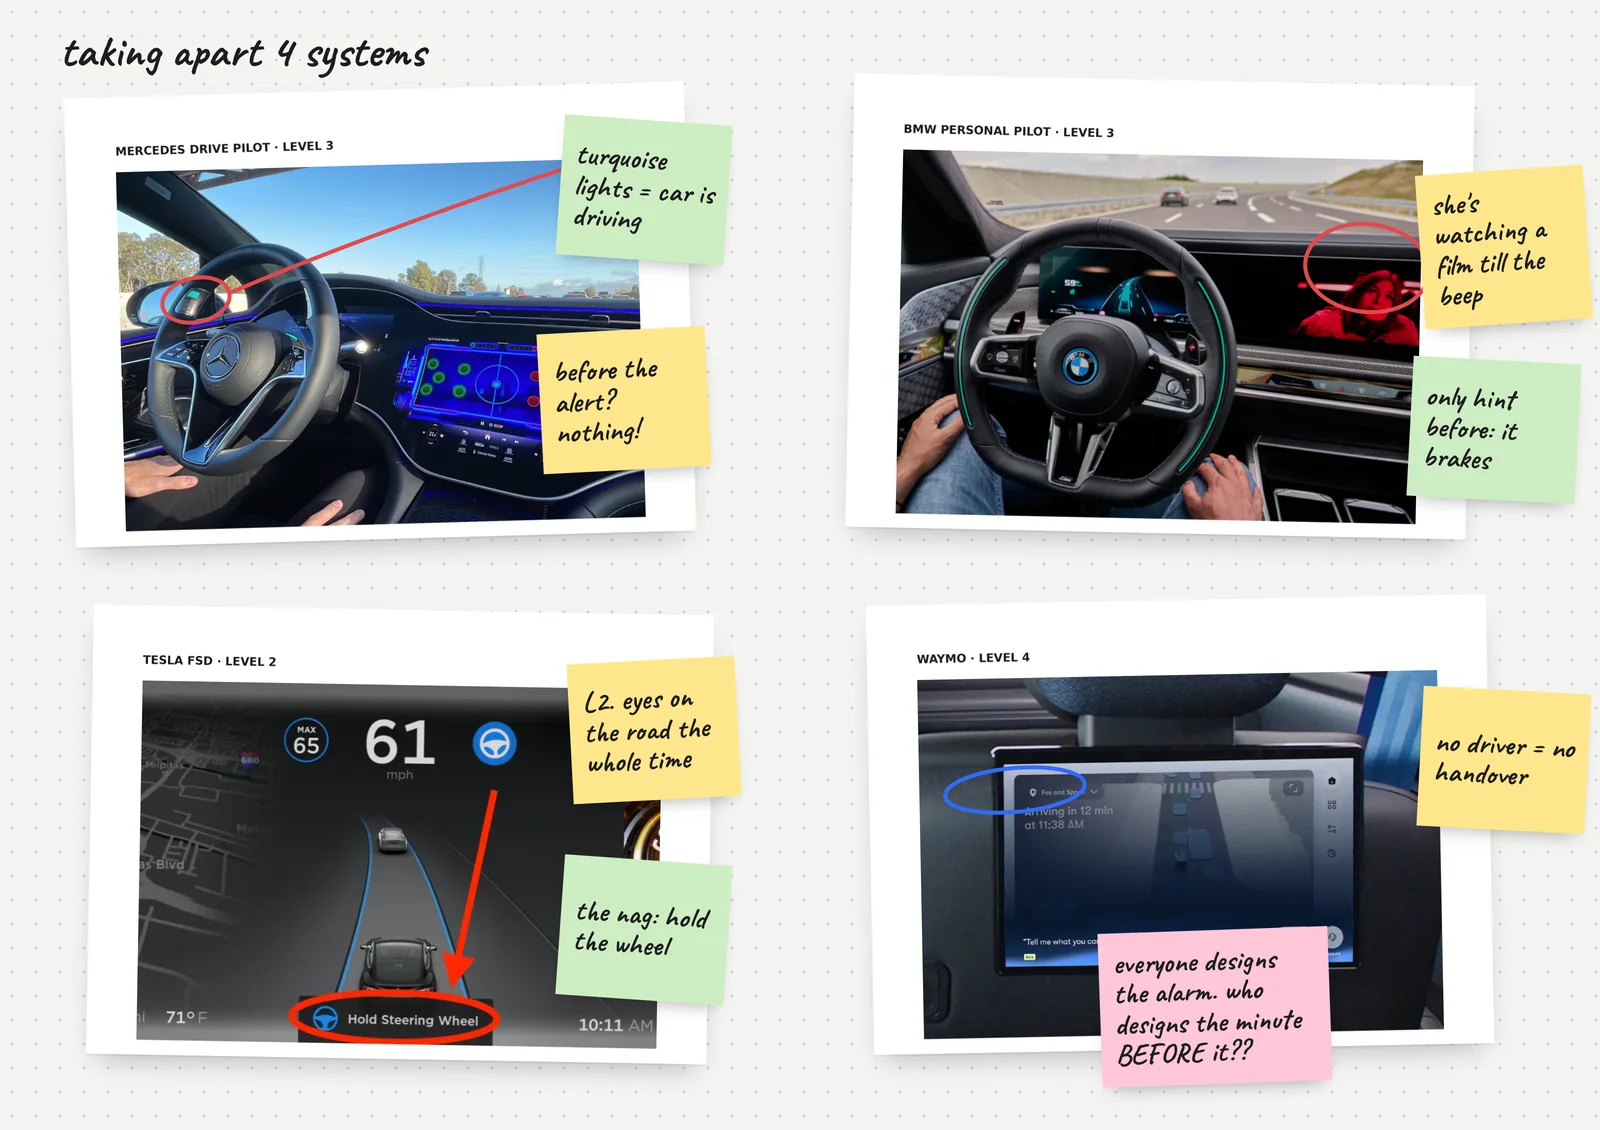
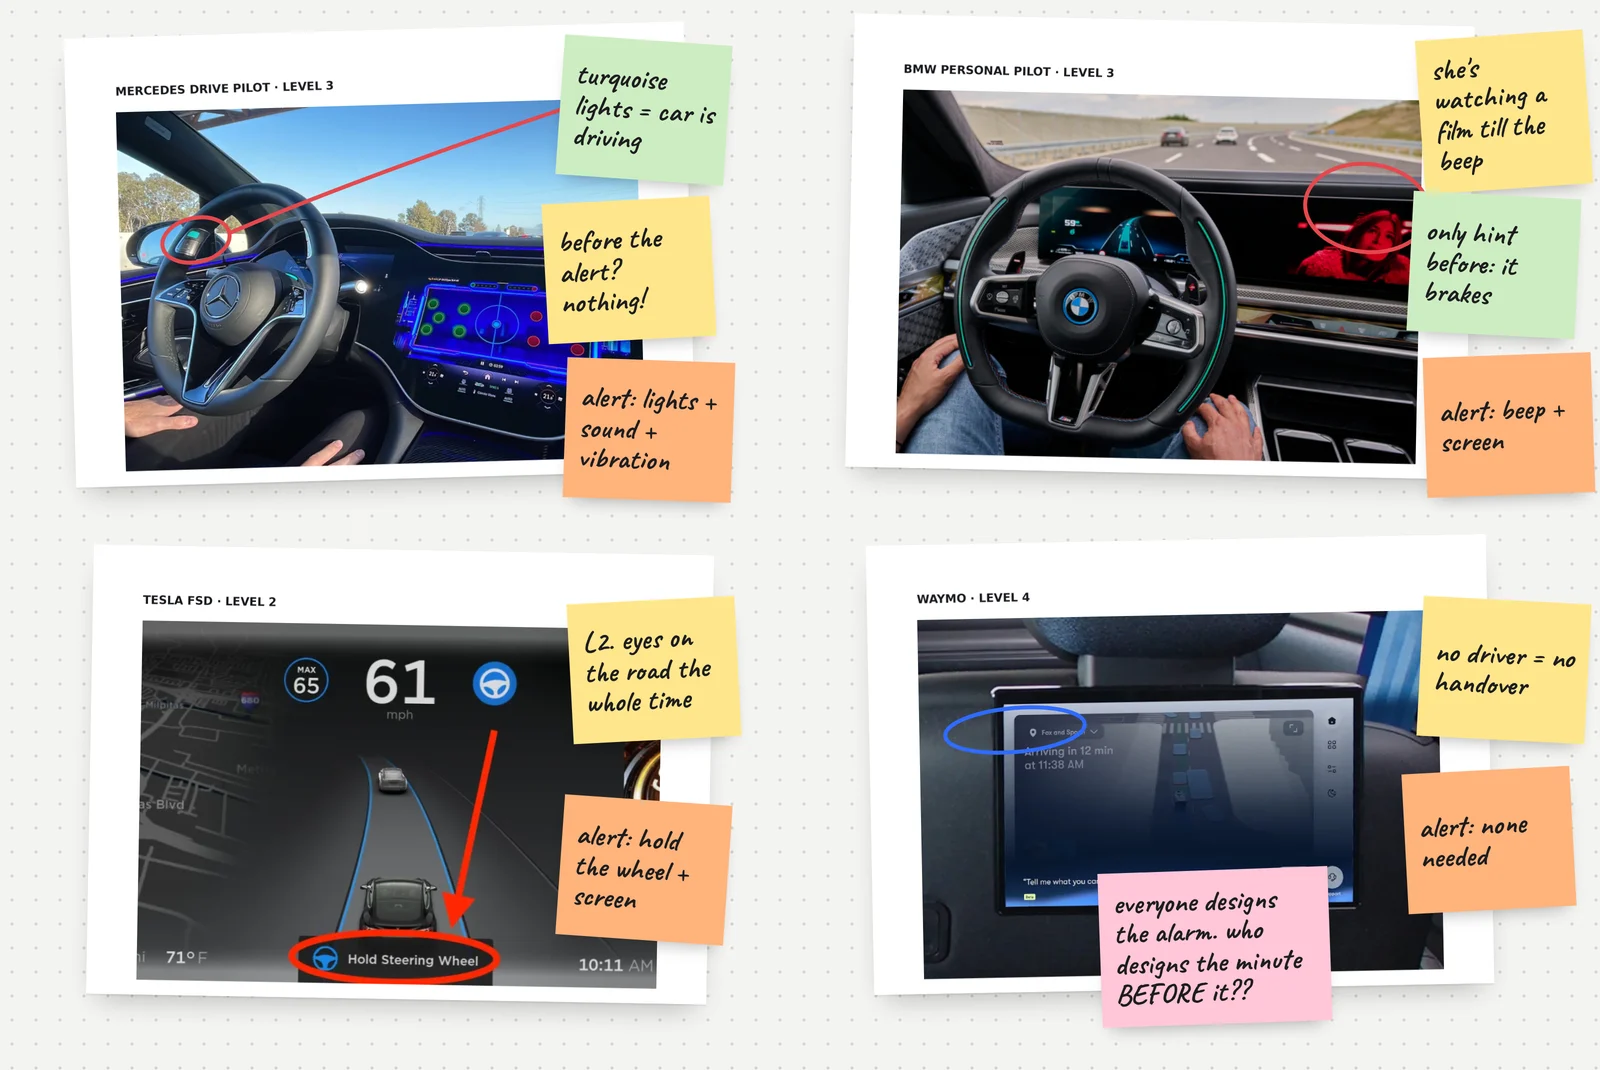
Step 2: table moved into the board as sticky notes, title and BMW note removed
Claude-Session: https://claude.ai/code/session_01RbJu4ENjvQVX4t9txAJ5Am

diff --git a/my-work/project-1/index.html b/my-work/project-1/index.html
@@ -877,18 +877,9 @@
                 <p class="v2-step-num">STEP 2</p>
                 <div>
                   <h3>Taking apart four systems</h3>
-                  <p class="cs-body cs-mb-32">What does each one tell the driver before a handover, and during it?</p>
-                  <div class="cs-table">
-                    <div>System</div><div>Level</div><div>Before the alert</div><div>Alert</div>
-                    <div>Mercedes DRIVE PILOT</div><div>L3</div><div>Nothing designed</div><div>Visual + acoustic + haptic</div>
-                    <div>BMW Personal Pilot L3</div><div>L3</div><div>Gradual braking only</div><div>Audible + visual</div>
-                    <div>Tesla FSD</div><div>L2</div><div>n/a, always supervised</div><div>Torque check + visual</div>
-                    <div>Waymo</div><div>L4</div><div>n/a, no driver seat</div><div>None required</div>
+                  <div class="v2-photos v2-photos-one">
+                    <a class="v2-zoom" data-z="2" data-zoom="../../assets/images/project-1/v2-systems-xl.webp" href="../../assets/images/project-1/v2-systems-xl.webp" target="_blank" rel="noopener"><span class="v2-lens" aria-hidden="true"></span><img src="../../assets/images/project-1/v2-systems.webp" srcset="../../assets/images/project-1/v2-systems-s.webp 800w, ../../assets/images/project-1/v2-systems.webp 1600w" sizes="(max-width: 900px) 100vw, 1100px" loading="lazy" alt="Screens from Mercedes, BMW, Tesla and Waymo with sticky notes. Mercedes Level 3, nothing before the alert, alert is lights, sound and vibration. BMW Level 3, only braking before, alert is a beep and screen. Tesla Level 2, eyes on the road always, alert is hold the wheel. Waymo Level 4, no driver so no alert. A pink note asks who designs the minute before the alarm."></a>
                   </div>
-                  <div class="v2-photos v2-photos-one" style="margin-top:24px;">
-                    <a class="v2-zoom" data-z="2" data-zoom="../../assets/images/project-1/v2-systems-xl.webp" href="../../assets/images/project-1/v2-systems-xl.webp" target="_blank" rel="noopener"><span class="v2-lens" aria-hidden="true"></span><img src="../../assets/images/project-1/v2-systems.webp" srcset="../../assets/images/project-1/v2-systems-s.webp 800w, ../../assets/images/project-1/v2-systems.webp 1600w" sizes="(max-width: 900px) 100vw, 1100px" loading="lazy" alt="Screens from Mercedes, BMW, Tesla and Waymo laid out with sticky notes: turquoise lights mean the car is driving, nothing happens before the alert, she watches a film until the beep, the only hint before is braking, Level 2 means eyes on the road, no driver means no handover, and a pink note asking who designs the minute before the alarm."></a>
-                  </div>
-                  <p class="v2-note">While I was working on this, BMW announced it was stepping back from Level 3 for its next lineup. The problem stays for every Level 3 car already on the road.</p>
                 </div>
               </div>
 
